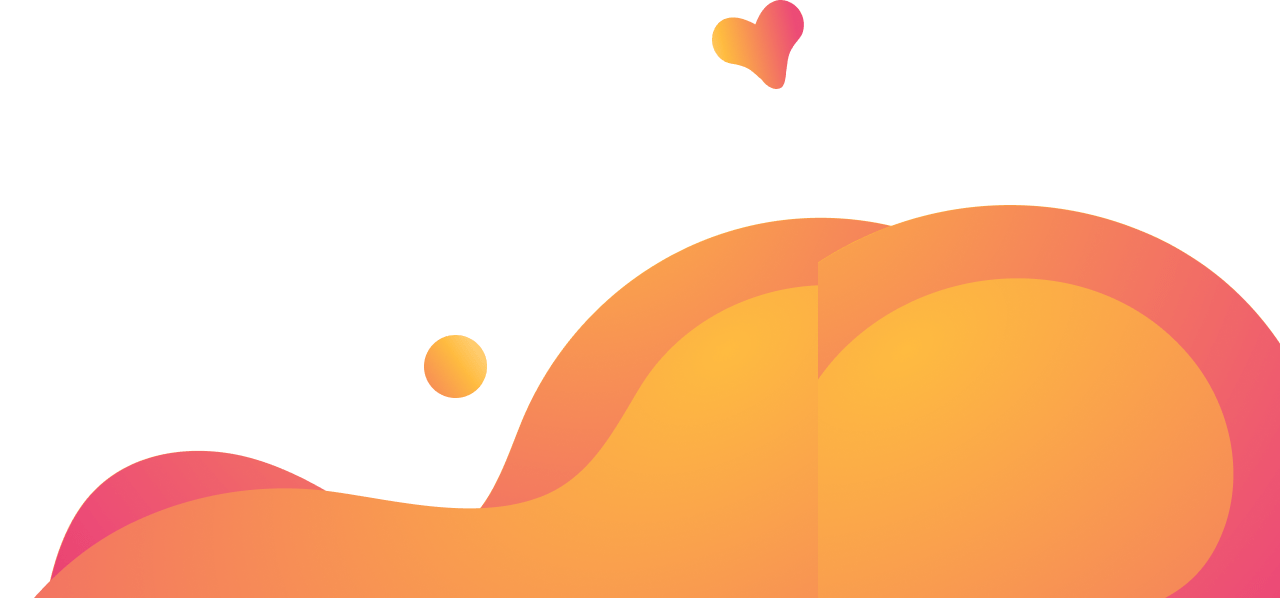
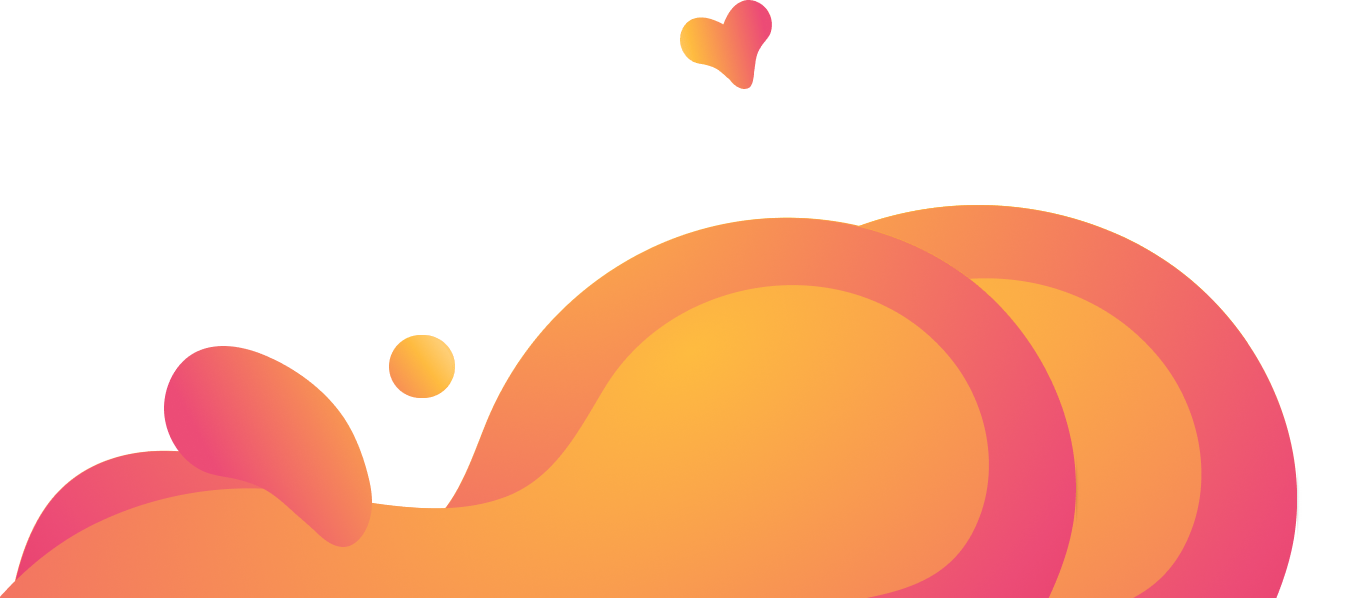
fix modal and Home page

Changed region(s): [[0.0, 0.3311, 1.0, 1.0], [0.5, 0.0, 0.625, 0.1505]]

diff --git a/src/pages/Home/Home.styled.js b/src/pages/Home/Home.styled.js
@@ -79,5 +79,8 @@ export const Background = styled(motion.div)`
 
   ${theme.mq.desktop} {
     background: bottom 0 center no-repeat url(${waveDesktop});
+    background-size: 1550px;
+    margin: auto;
+
   }
 `;

diff --git a/src/components/Overlay/Overlay.styled.js b/src/components/Overlay/Overlay.styled.js
@@ -5,6 +5,7 @@ import { motion } from 'framer-motion';
 export const OverlayStyled = styled(motion.div)`
   padding: 20px 0;
   position: fixed;
+  overflow: scroll;
   top: 0;
   left: 0;
   right: 0;
